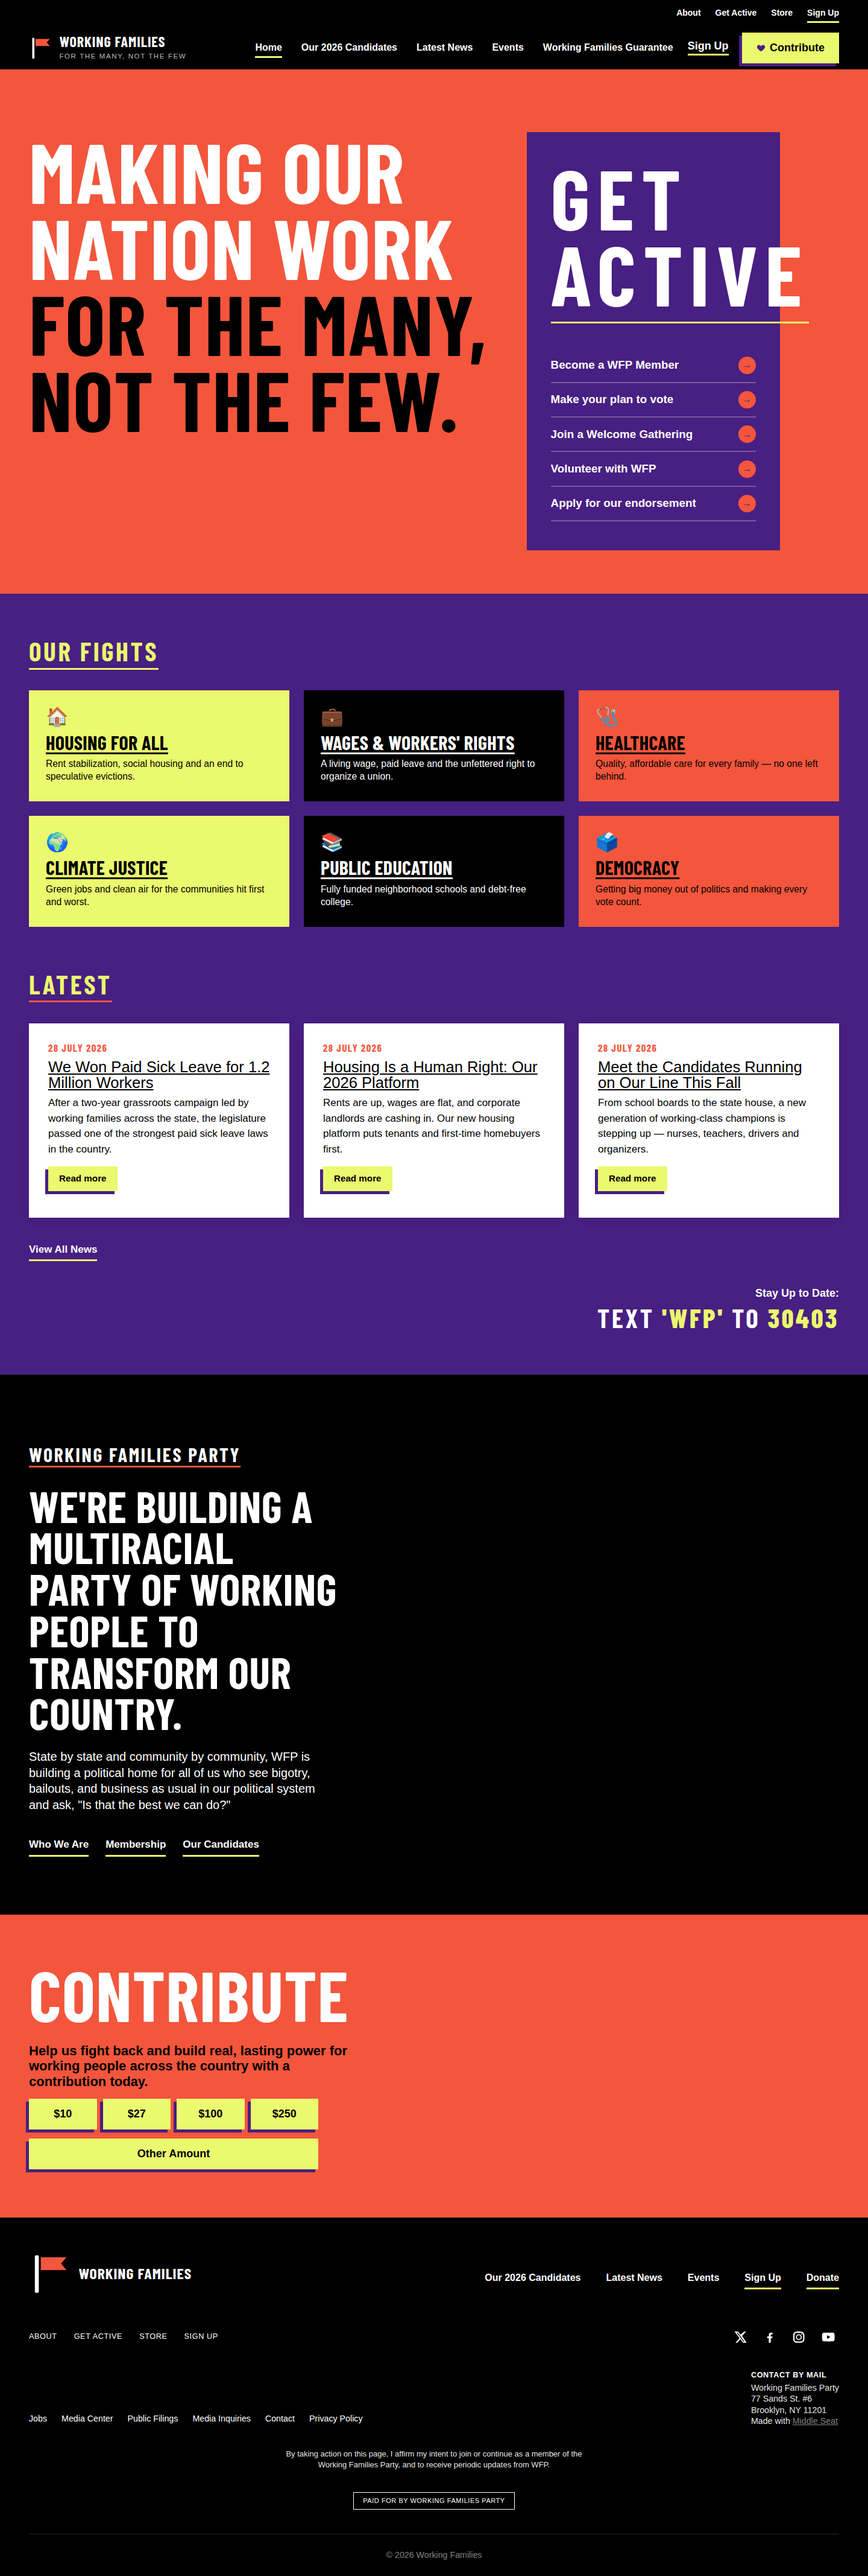
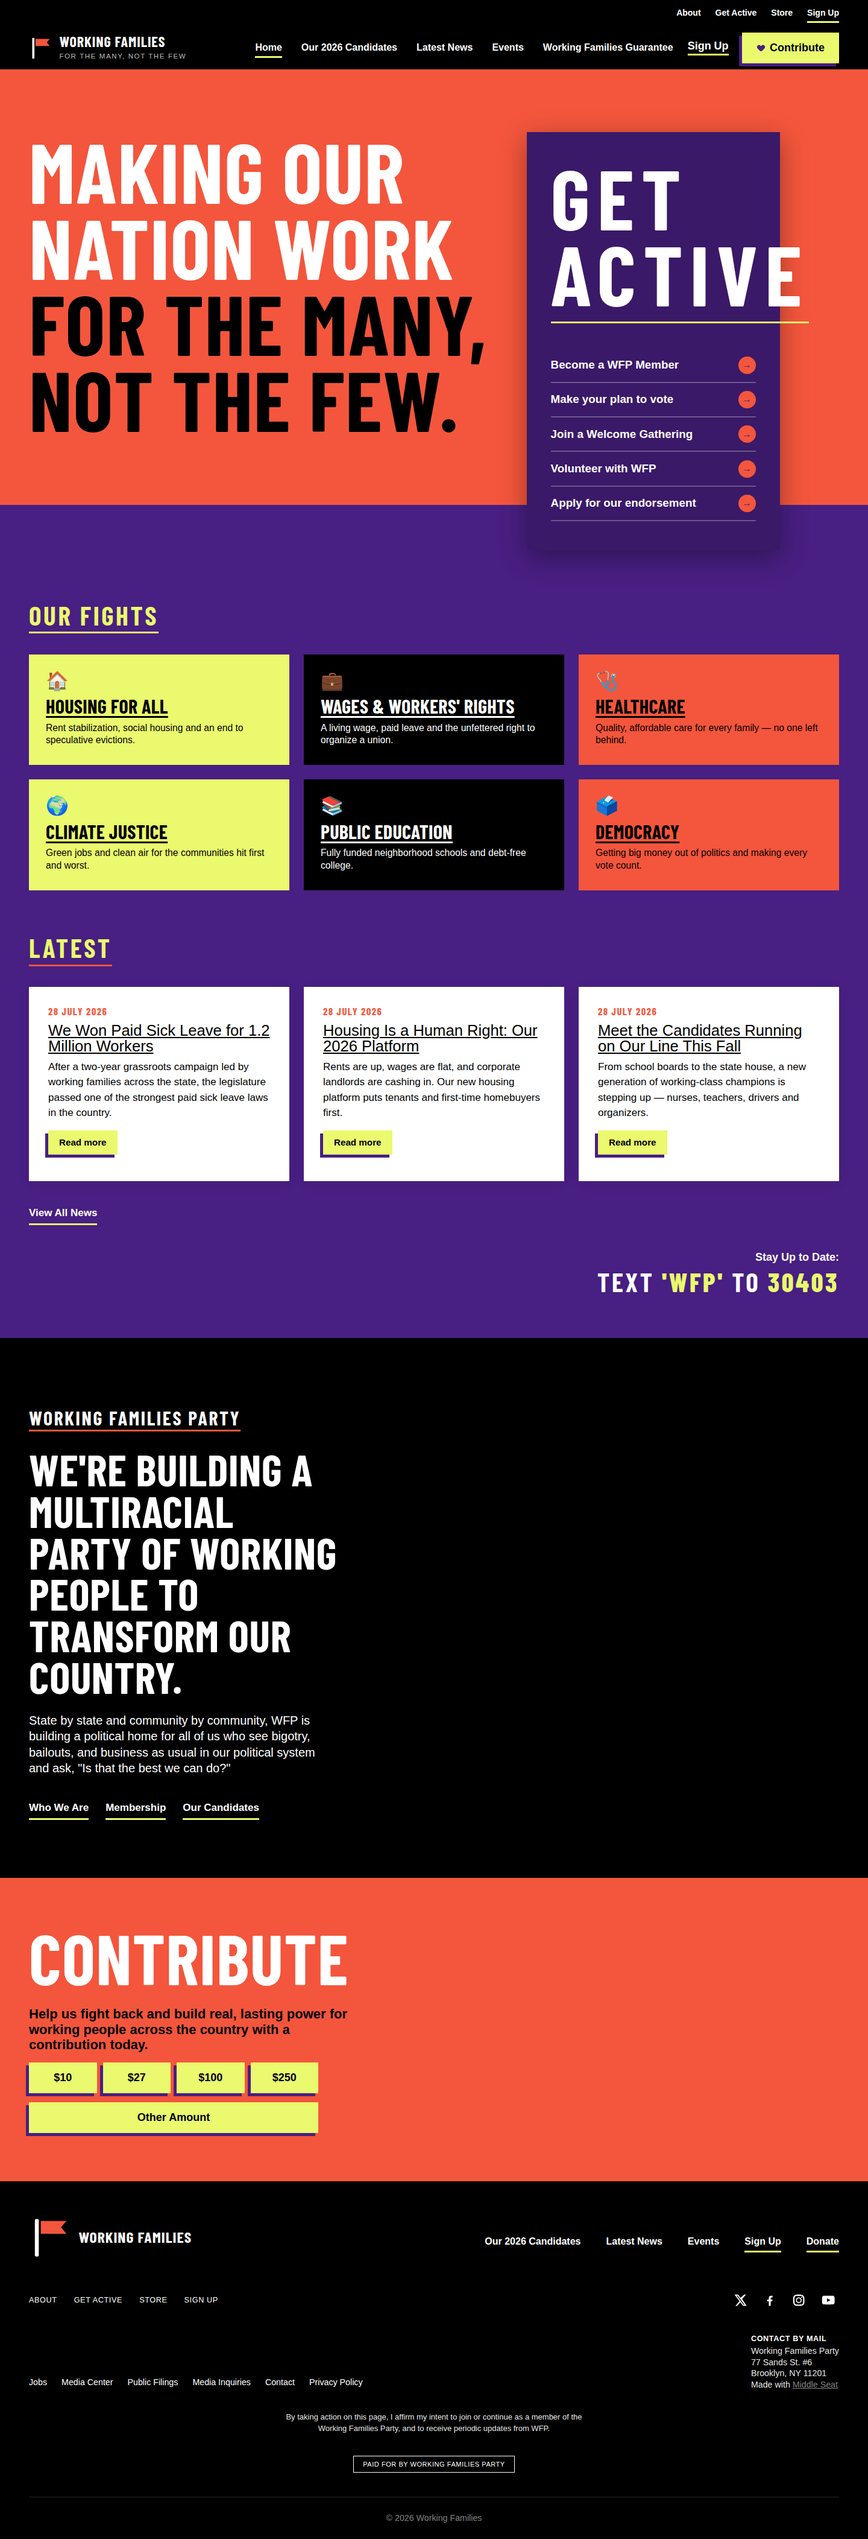
Get Active kutusunu turuncu/mor sınırına bindir
- Kutu masaüstünde manşetten aşağı sarkıp mor bölümün üstüne biner
  (gerçek sitedeki absolute .cta-nav taşması; mobilde normal akış)
- Mor zeminden ayrışması için kutu bir ton koyulaştırıldı + gölge eklendi
- Our Fights içeriği sarkan kutunun altından başlar

Claude-Session: https://claude.ai/code/session_01MdYXmwff4MqSdkYMuHAHUW

diff --git a/joomla/templates/wfp/css/template.css b/joomla/templates/wfp/css/template.css
@@ -1095,6 +1095,8 @@ input, select, textarea { font: inherit; }
 }
 
 /* ---------- Hero grid: manşet + Get Active kutusu ---------- */
+.wfp-hero { position: relative; z-index: 2; }
+
 .wfp-hero-grid {
   display: grid;
   grid-template-columns: minmax(0, 1fr);
@@ -1104,12 +1106,24 @@ input, select, textarea { font: inherit; }
 
 @media (min-width: 64rem) {
   .wfp-hero-grid { grid-template-columns: minmax(0, 1.5fr) minmax(20rem, 1fr); }
+
+  /* Kutu turuncu/mor sınırına basar: aşağı sarkar, mor bölümün üstüne biner
+     (gerçek sitedeki absolute .cta-nav taşması) */
+  .wfp-getactive-slot {
+    position: relative;
+    z-index: 5;
+    margin-bottom: -170px;
+  }
+
+  /* Mor bölümün içeriği sarkan kutunun altından başlasın */
+  .view-home .wfp-section-topa { padding-top: 10rem; }
 }
 
 /* Get Active box (real .cta-nav): purple, yellow underlined heading,
    white links with bordered rows and orange circle arrows */
 .wfp-getactive {
-  background: var(--wfp-purple);
+  background: #3a1968; /* mor zeminden ayrışması için bir ton koyu */
+  box-shadow: 0 12px 40px rgba(0, 0, 0, 0.35);
   padding: 44px 40px 48px;
   max-width: 420px;
 }
